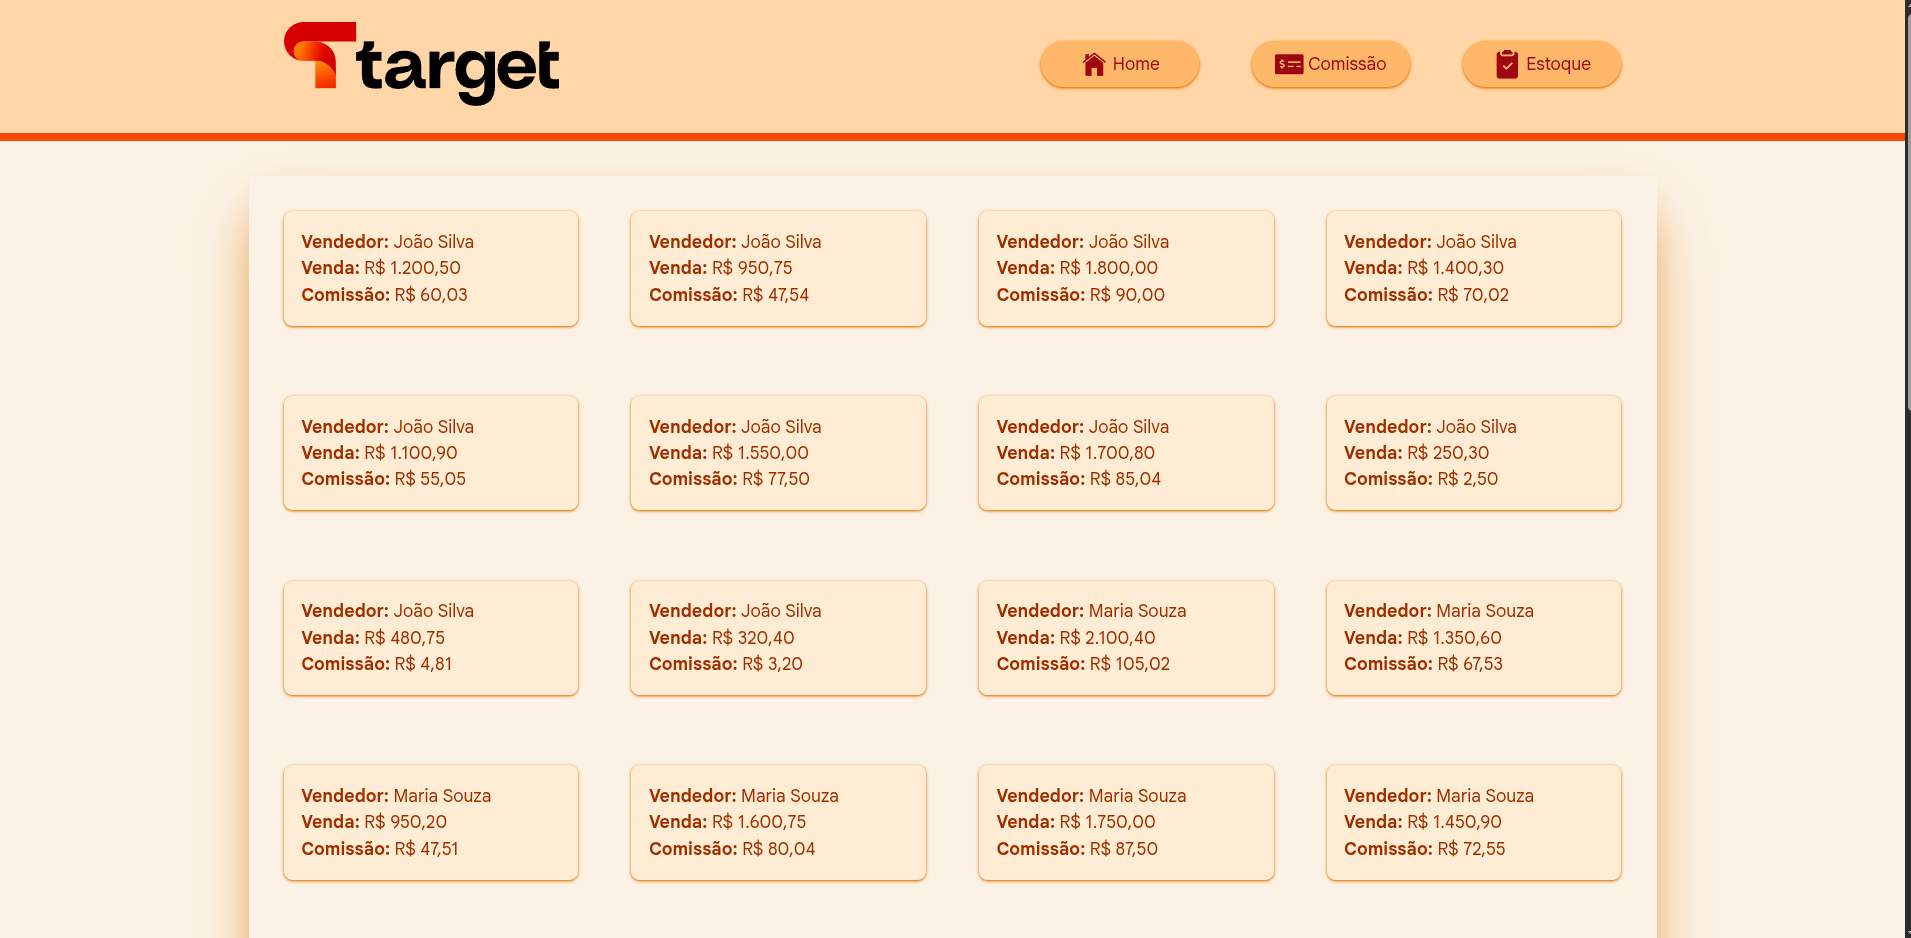
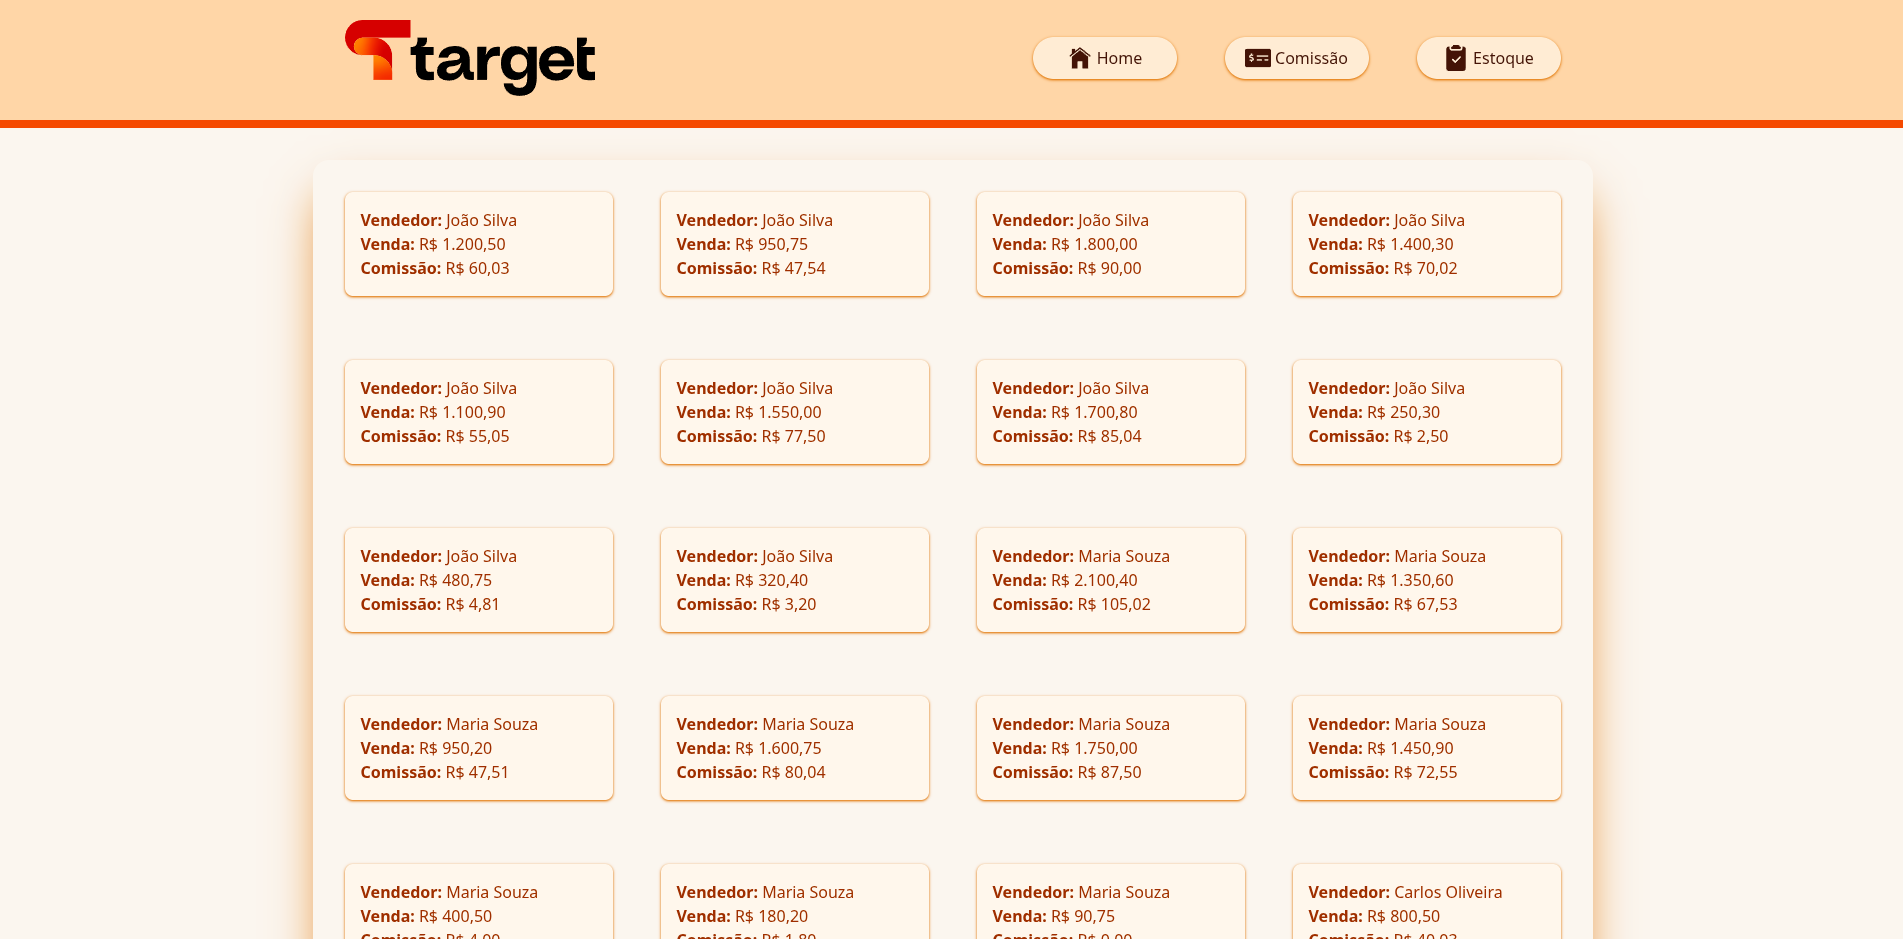
ajuste no layout e suavidade de cores

Changed region(s): [[0.093, 0.2164, 0.8991, 1.0], [0.0, 0.0, 1.0, 1.0]]

diff --git a/frontend/src/components/Footer.tsx b/frontend/src/components/Footer.tsx
@@ -1,3 +1,6 @@
+import { Link } from "react-router";
+import SocialMedia from "./SocialMedia";
+
 export default function Footer() {
   const cidades = [
     ["Comercial", "(11) 94543.1551"],
@@ -12,13 +15,16 @@ export default function Footer() {
   ];
 
   return (
-    <footer className="w-full border-t-8 border-t-orange-600 bg-orange-200 py-8">
-      <div className="mx-auto flex max-w-7xl flex-col items-center px-6">
-        <img src="/logo.svg" alt="Target" width={150} className="mb-8" />
+    <footer className="w-full border-t-8 border-t-orange-600 bg-orange-200 py-10">
+      <div className="mx-auto mb-8">
+        <SocialMedia />
+      </div>
+      <div className="mx-auto flex max-w-7xl flex-col items-center">
+        <img src="/logo.svg" alt="Target" width={250} className="" />
 
-        <ul className="grid w-full grid-cols-2 gap-6 text-center text-orange-900 sm:grid-cols-3 lg:grid-cols-9">
+        <ul className="grid w-full grid-cols-2 text-center text-sm text-orange-900 sm:grid-cols-3 lg:grid-cols-9">
           {cidades.map(([cidade, telefone]) => (
-            <li key={cidade} className="flex flex-col items-center">
+            <li key={cidade} className="mb-4 flex flex-col items-center py-4">
               <strong>{cidade}</strong>
 
               <span className="whitespace-nowrap">{telefone}</span>
@@ -26,18 +32,18 @@ export default function Footer() {
           ))}
         </ul>
 
-        <div className="mt-8 flex flex-col items-center justify-center gap-2 text-orange-700 md:flex-row">
+        <div className="flex flex-col items-center justify-center gap-2 text-xl text-orange-700 md:flex-row">
           <span>
             Developed by{" "}
-            <a
-              href="https://tricia-sz.netlify.app"
+            <Link
+              to="https://tricia-sz.netlify.app"
               target="_blank"
               rel="noopener noreferrer"
-              className="font-medium text-orange-600 hover:underline"
+              className="font-medium text-orange-800 hover:underline"
             >
               Patrícia Souza
-            </a>{" "}
-            ❤ 2026
+            </Link>{" "}
+            🤎 2026
           </span>
         </div>
       </div>

diff --git a/frontend/src/components/Header.tsx b/frontend/src/components/Header.tsx
@@ -11,25 +11,25 @@ export default function Header() {
           <img
             src="/logo.svg"
             alt="Target"
-            width={250}
+            width={90}
             className="w-48 lg:w-[250px]"
           />
         </div>
 
-        <nav className="flex items-center gap-4 text-red-800 lg:gap-12">
-          <div className="flex w-32 items-center justify-center gap-1 rounded-full bg-orange-300 py-2 shadow shadow-amber-600 lg:w-36">
+        <nav className="flex items-center gap-4 text-orange-950 lg:gap-12">
+          <div className="flex w-32 items-center justify-center gap-1 rounded-full bg-orange-100 py-2 shadow shadow-amber-600 lg:w-36">
             <IoIosHome size={26} />
 
             <Link to="/">Home</Link>
           </div>
 
-          <div className="flex w-32 items-center justify-center gap-1 rounded-full bg-orange-300 py-2 shadow shadow-amber-600 lg:w-36">
+          <div className="flex w-32 items-center justify-center gap-1 rounded-full bg-orange-100 py-2 shadow shadow-amber-600 lg:w-36">
             <FaMoneyCheckAlt size={26} />
 
             <Link to="/comissao">Comissão</Link>
           </div>
 
-          <div className="flex w-32 items-center justify-center gap-1 rounded-full bg-orange-300 py-2 shadow shadow-amber-600 lg:w-36">
+          <div className="flex w-32 items-center justify-center gap-1 rounded-full bg-orange-100 py-2 shadow shadow-amber-600 lg:w-36">
             <BsFillClipboard2CheckFill size={26} />
 
             <Link to="/estoque">Estoque</Link>

diff --git a/frontend/src/index.css b/frontend/src/index.css
@@ -1,12 +1,55 @@
+@import url("https://fonts.googleapis.com/css2?family=Noto+Sans:ital,wght@0,100..900;1,100..900&family=Ubuntu:ital,wght@0,300;0,400;0,500;0,700;1,300;1,400;1,500;1,700&display=swap");
 @import url("https://fonts.googleapis.com/css2?family=Google+Sans:ital,opsz,wght@0,17..18,400..700;1,17..18,400..700&display=swap");
 @import "tailwindcss";
 
-* {
-  font-family: "Google Sans", sans-serif;
-  font-optical-sizing: auto;
-  font-variation-settings: "GRAD" 0;
+.ubuntu-light {
+  font-family: "Ubuntu", sans-serif;
+  font-weight: 300;
+  font-style: normal;
+}
+
+.ubuntu-regular {
+  font-family: "Ubuntu", sans-serif;
+  font-weight: 400;
+  font-style: normal;
+}
+
+.ubuntu-medium {
+  font-family: "Ubuntu", sans-serif;
+  font-weight: 500;
+  font-style: normal;
+}
+
+.ubuntu-bold {
+  font-family: "Ubuntu", sans-serif;
+  font-weight: 700;
+  font-style: normal;
+}
+
+.ubuntu-light-italic {
+  font-family: "Ubuntu", sans-serif;
+  font-weight: 300;
+  font-style: italic;
+}
+
+.ubuntu-regular-italic {
+  font-family: "Ubuntu", sans-serif;
+  font-weight: 400;
+  font-style: italic;
+}
+
+.ubuntu-medium-italic {
+  font-family: "Ubuntu", sans-serif;
+  font-weight: 500;
+  font-style: italic;
+}
+
+.ubuntu-bold-italic {
+  font-family: "Ubuntu", sans-serif;
+  font-weight: 700;
+  font-style: italic;
 }
 
 body {
-  background-color: #fbf2e5;
+  background-color: #fbf6f0;
 }

diff --git a/frontend/src/components/SocialMedia.tsx b/frontend/src/components/SocialMedia.tsx
@@ -1,0 +1,47 @@
+import { FaInstagramSquare, FaLinkedin, FaYoutube } from "react-icons/fa";
+import { IoLogoFacebook } from "react-icons/io";
+import { Link } from "react-router";
+
+export default function SocialMedia() {
+  const redes = [
+    {
+      nome: "Instagram",
+      url: "https://www.instagram.com/targetsistemas/",
+      icon: <FaInstagramSquare size={36} />,
+    },
+    {
+      nome: "Facebook",
+      url: "https://www.linkedin.com/company/target-sistemas/",
+      icon: <IoLogoFacebook size={36} />,
+    },
+    {
+      nome: "LinkedIn",
+      url: "https://www.linkedin.com/company/target-sistemas/",
+      icon: <FaLinkedin size={36} />,
+    },
+    {
+      nome: "YouTube",
+      url: "https://www.youtube.com/channel/UCukianZM5tsCfki5m1ZLUJQ",
+      icon: <FaYoutube size={36} />,
+    },
+  ];
+
+  return (
+    <div className="flex flex-col items-center">
+      <div className="flex items-center gap-4">
+        {redes.map((rede) => (
+          <Link
+            to={rede.url}
+            key={rede.nome}
+            target="_blank"
+            rel="noopener noreferrer"
+            aria-label={rede.nome}
+            className="text-2xl text-orange-950 transition-all duration-200 hover:scale-110 hover:text-orange-600"
+          >
+            {rede.icon}
+          </Link>
+        ))}
+      </div>
+    </div>
+  );
+}

diff --git a/frontend/src/components/Hero.tsx b/frontend/src/components/Hero.tsx
@@ -5,7 +5,7 @@ import { Container } from "./Contianer";
 export function Hero() {
   return (
     <Container className="">
-      <h1 className="text-7xl font-extrabold text-nowrap text-orange-900">
+      <h1 className="text-7xl font-extrabold text-nowrap text-orange-950">
         Gestão simples.
       </h1>
       <span className="text-6xl font-extrabold text-nowrap text-orange-600">
@@ -21,7 +21,7 @@ export function Hero() {
         <Button className="flex w-64 items-center justify-center gap-2 rounded-full bg-orange-600 py-4 text-xl text-white shadow-2xl shadow-amber-600">
           Começar agora <GrLinkNext />
         </Button>
-        <Button className="w-60 rounded-full border border-orange-500 bg-orange-100 py-4 text-xl text-orange-950">
+        <Button className="w-60 rounded-full bg-orange-100 py-4 text-xl text-orange-950 shadow shadow-amber-600">
           Conhecer Recursos{" "}
         </Button>
       </div>

diff --git a/frontend/src/pages/Comissao.tsx b/frontend/src/pages/Comissao.tsx
@@ -21,11 +21,11 @@ export default function Comissao() {
   }, []);
 
   return (
-    <Container className="mt-8 mb-8 grid grid-cols-4 gap-12 space-y-4 p-8 shadow-2xl shadow-amber-600">
+    <Container className="mt-8 mb-8 grid grid-cols-4 gap-12 space-y-4 rounded-2xl p-8 shadow-2xl shadow-amber-600">
       {comissoes.map((comissao, index) => (
         <Container
           key={index}
-          className="items-center justify-center rounded-lg bg-orange-100 p-4 text-orange-800 shadow shadow-amber-600"
+          className="items-center justify-center rounded-lg bg-orange-50 p-4 text-orange-800 shadow shadow-amber-600"
         >
           <p>
             <b>Vendedor:</b> {comissao.vendedor}

diff --git a/frontend/src/pages/Home.tsx b/frontend/src/pages/Home.tsx
@@ -2,7 +2,7 @@ import { Hero } from "../components/Hero";
 
 export function Home() {
   return (
-    <section className="w-full bg-orange-50">
+    <section className="w-full">
       <div className="mx-auto flex max-w-7xl items-center gap-10 px-8 py-12">
         <Hero />
 
